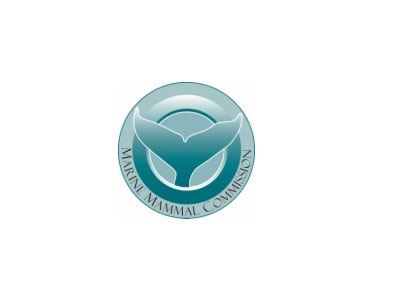
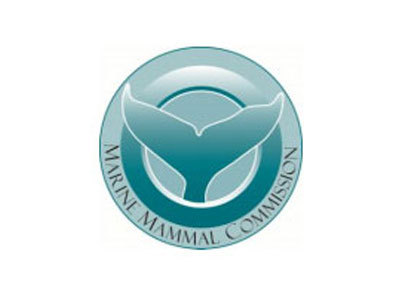
update

Changed region(s): [[0.24, 0.15, 0.78, 0.84]]

diff --git a/_posts/2016-11-23-16-marine-mammal-health.html b/_posts/2016-11-23-16-marine-mammal-health.html
@@ -2,7 +2,7 @@
 title: Axiom Partners on Web-Based Data Platform for Marine Mammal Health
 published: true
 layout: post
-image_thumb: /assets/images/blog/2016/11/MMH.thumb.jpg
+image_thumb: /assets/images/blog/2016/11/MMH.thumb.jpg?v2
 ---
 
 
